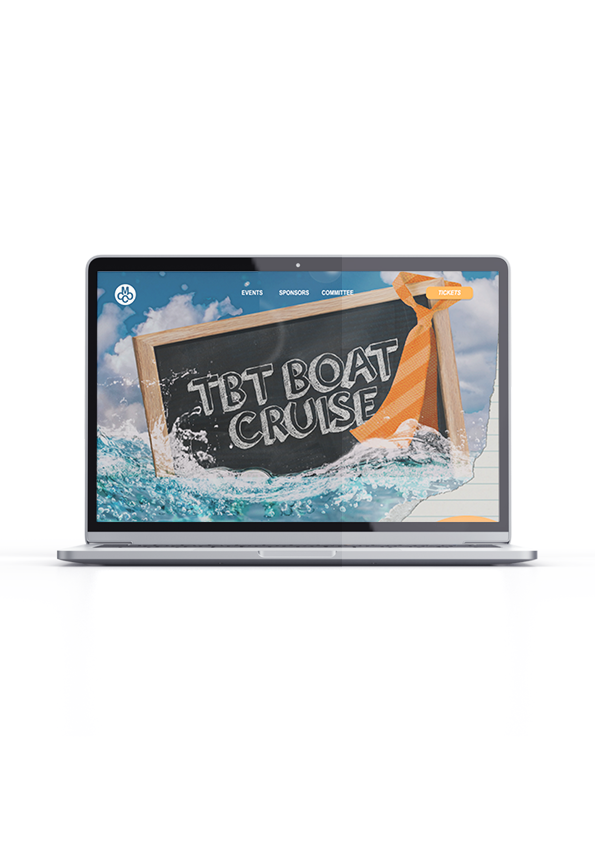
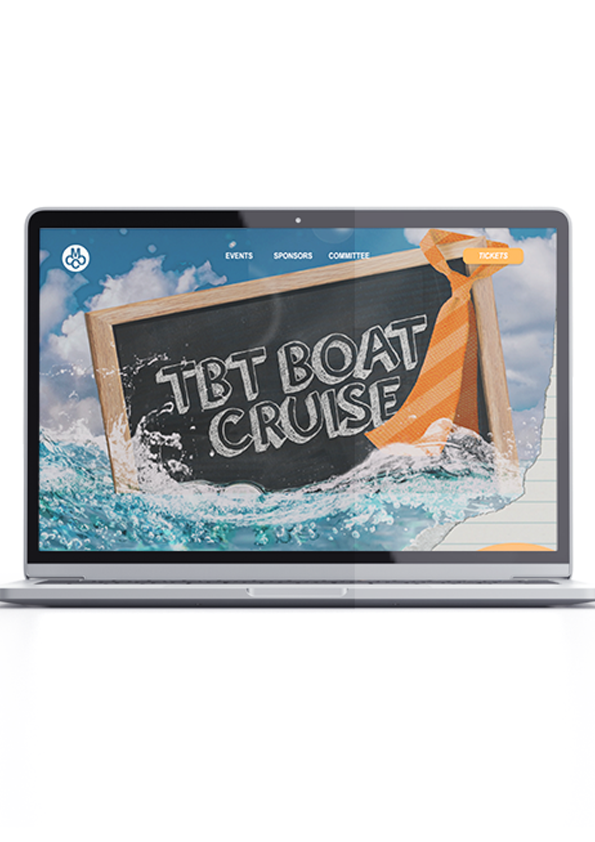
..

diff --git a/kirstytrinh/monopoly-ux.html b/kirstytrinh/monopoly-ux.html
@@ -21,7 +21,7 @@
       </div>
     </div>
 
-    <div class="container">
+    <div class="container2">
         <div class="about-image"> 
             <img src="work/monopoly-mockup.png" alt="">
         </div>
@@ -31,20 +31,21 @@
                 <a class="button" href="portfolio.html"> <i class="arrow-left"></i> </a>
             </div>
             <div class="info-title"> Monopoly Museum UX  </div>
-            <div class="info-location"> CDS2001 </div>
+            <div class="info-location"> Before / During / After </div>
             <div class="info-text">
-                The Omaru Alpaca Farm is located in Cottles Bridge and is only open on the first and fourth Sundays of each month, from 11:00 a.m. to 3:00 p.m. This is due to the fact that the alpacas require relaxation. It is an open farm so we can go and feed the animals.  
+                The task was to create a prototype app that would support and improve the project museum of.... The name of the museum I chose is Museum of Monopoly. The app was created to be used before, during, and after visiting a museum. Purchasing museum admission with an app is the before stage. The scavenger hunt and shooting pictures take place during stage. The next step is to conduct a survey about the visit which is the after stage. As my museum is dedicated to Monopoly, I preserve the essential elements, such as the colours, house cards, and figurines, that make Monopoly so recognisable. 
             </div>
 
-        </div>
+            <div class="more-pic"> 
+                <img src="work/monopoly-experience.png" alt="">
+            </div>
+
+            <div class="more-pic"> 
+                <img src="work/monopoly-ux-style.png" alt="">
+            </div>
     </div>
 
-    <div class="footer">
-        <div class="footercol"> <a href="about.html"> About </a> </div>
-        <div class="footercol"> Kirsty Trinh </div>
-        <div class="footercol"> <a href="portfolio.html"> Portfolio </a> </div>
-        <div class="footercol"> Monash Art and Design </div>
-    </div>
+ 
 
 
 

diff --git a/kirstytrinh/dpub.html b/kirstytrinh/dpub.html
@@ -1,0 +1,53 @@
+<!DOCTYPE html>
+<html lang="en">
+<head>
+    <meta charset="UTF-8">
+    <meta http-equiv="X-UA-Compatible" content="IE=edge">
+    <meta name="viewport" content="width=device-width, initial-scale=1.0">
+    <title>whisky</title>
+    <link rel="stylesheet" href="reset.css">
+    <link rel="stylesheet" href="main.css">
+</head>
+<body>
+    
+    
+    <div class="header">
+        <div class="logo">
+            <a href="index.html"> ktrnh </a>
+        </div>
+        <div class="nav">
+          <a href="about.html"> About </a> 
+          <a href="portfolio.html"> Portfolio </a>
+      </div>
+    </div>
+
+    <div class="container">
+        <div class="about-image"> 
+            <img src="images/farm.png" alt="">
+        </div>
+
+
+        <div class="info-content">
+            <div class="back"> 
+                <a class="button" href="portfolio.html"> <i class="arrow-left"></i> </a>
+            </div>
+            <div class="info-title"> Everyday AR 2200  </div>
+            <div class="info-location"> MK</div>
+            <div class="info-text">
+                The Omaru Alpaca Farm is located in Cottles Bridge and is only open on the first and fourth Sundays of each month, from 11:00 a.m. to 3:00 p.m. This is due to the fact that the alpacas require relaxation. It is an open farm so we can go and feed the animals.  
+            </div>
+
+        </div>
+    </div>
+
+    <div class="footer">
+        <div class="footercol"> <a href="about.html"> About </a> </div>
+        <div class="footercol"> Kirsty Trinh </div>
+        <div class="footercol"> <a href="portfolio.html"> Portfolio </a> </div>
+        <div class="footercol"> Monash Art and Design </div>
+    </div>
+
+
+
+</body>
+</html>

diff --git a/kirstytrinh/main.css b/kirstytrinh/main.css
@@ -105,6 +105,14 @@ div.container {
     padding-right: 60px;
 }
 
+div.container2 {
+    display: flex;
+    flex-wrap: wrap;
+    padding-top: 60px;
+    padding-left: 60px;
+    padding-right: 60px;
+}
+
 div.item {
     width: 33.33%;
     padding-left: 40px;
@@ -145,7 +153,7 @@ div.box {
 }
 
 div.pic {
-    width: 30%;
+    width: 40%;
     padding-left: 20px;
     padding-right: 20px;
     margin-top: 20px;
@@ -162,21 +170,21 @@ div.pic.first {
     margin-left: 420px;
 }
 div.about-image {
-    width: 30%;
-    margin-top: 80px;
+    width: 50%;
+    margin-top: 40px;
     margin-left: 40px;
 }
 
 div.info-content {
-    width: 60%;
-    padding: 20px;
+    width: 70%;
     display: inline;
     margin-bottom: 20px;
 }
 
 div.info-text {
     line-height: 30px;
-    margin-left: 50px;
+    margin-left: 40px;
+    padding-top: 10px;
     font-size: 18px;
     align-items: flex-start;
 }
@@ -185,12 +193,12 @@ div.info-title {
     font-size: 28px;
     font-weight: bolder;
     text-transform: uppercase;
-    margin-left: 50px;
+    margin-left: 40px;
     padding-bottom: 8px;
 }
 
 div.info-location {
-    margin-left: 50px;
+    margin-left: 40px;
     color: rgb(119, 118, 118);
     font-size: 15px;
     padding-bottom: 20px;
@@ -235,6 +243,12 @@ div.details {
     align-items: flex-start;
 }
 
+div.more-pic {
+    margin-top: 40px;
+    margin: 40px;
+
+}
+
 .look img { 
     height: 100%;
     object-fit: cover;
@@ -268,9 +282,10 @@ div.back a:hover {
 
 div.back {
     line-height: 45px;
-    margin-left: 50px;
+    margin-left: 40px;
     font-size: 13px;
-    margin-bottom: 10px;
+    margin-bottom: 20px;
+    padding-top: 40px;
 }
 
 div.footer {

diff --git a/kirstytrinh/event-ux.html b/kirstytrinh/event-ux.html
@@ -4,7 +4,7 @@
     <meta charset="UTF-8">
     <meta http-equiv="X-UA-Compatible" content="IE=edge">
     <meta name="viewport" content="width=device-width, initial-scale=1.0">
-    <title>hush</title>
+    <title>event ux</title>
     <link rel="stylesheet" href="reset.css">
     <link rel="stylesheet" href="main.css">
 </head>
@@ -21,9 +21,9 @@
       </div>
     </div>
 
-    <div class="container">
+    <div class="container2">
         <div class="about-image"> 
-            <img src="images/farm.png" alt="">
+            <img src="work/event-mockup.png" alt="">
         </div>
 
 
@@ -32,9 +32,9 @@
                 <a class="button" href="portfolio.html"> <i class="arrow-left"></i> </a>
             </div>
             <div class="info-title"> Mtriple C </div>
-            <div class="info-location"> CDS2001 </div>
+            <div class="info-location"> Event Website </div>
             <div class="info-text">
-                The Omaru Alpaca Farm is located in Cottles Bridge and is only open on the first and fourth Sundays of each month, from 11:00 a.m. to 3:00 p.m. This is due to the fact that the alpacas require relaxation. It is an open farm so we can go and feed the animals.  
+                The brief was to create a website prototype for my chosen event, a TBT boat cruise for a University social club called Mtriplec C. I designed an overall website for Mtriple C in order to provide a platform for patrons to purchase event tickets and learn more about the university social club. Mticple C's colour is orange, so orange circles are used to create a flow and add dimension to the website's background. 
             </div>
 
         </div>

diff --git a/kirstytrinh/imposter.html b/kirstytrinh/imposter.html
@@ -32,9 +32,10 @@
                 <a class="button" href="portfolio.html"> <i class="arrow-left"></i> </a>
             </div>
             <div class="info-title"> Imposter Syndrome </div>
-            <div class="info-location"> CDS3002 </div>
+            <div class="info-location"> Activation </div>
             <div class="info-text">
-                The Omaru Alpaca Farm is located in Cottles Bridge and is only open on the first and fourth Sundays of each month, from 11:00 a.m. to 3:00 p.m. This is due to the fact that the alpacas require relaxation. It is an open farm so we can go and feed the animals.  
+                Since many people experience imposter syndrome unknowingly, it is the focus of my campaign. The purpose of my campaign is to raise awareness of imposter syndrome and to reassure those who are experiencing it that they are not alone. The billboards are situated in the city roads, streets and train station so that people can view them on their route to and from work because the intended audience is workers. My primary campaign is a motion advertisement that shows the cognitive process of a person with imposter syndrome when they are given a task by their management. The fact that the ball starts off large before gradually shrinking shows how exhausted and worn out the individual are. The last scene, shows the the ball become big but not as big as the first scene because they pretend that everything is fine.
+
             </div>
 
         </div>

diff --git a/kirstytrinh/halfmoonbay.html b/kirstytrinh/halfmoonbay.html
@@ -32,9 +32,9 @@
                 <a class="button" href="portfolio.html"> <i class="arrow-left"></i> </a>
             </div>
             <div class="info-title"> Half Moon Bay </div>
-            <div class="info-location"> CDS3001 </div>
+            <div class="info-location"> Observation </div>
             <div class="info-text">
-                The Omaru Alpaca Farm is located in Cottles Bridge and is only open on the first and fourth Sundays of each month, from 11:00 a.m. to 3:00 p.m. This is due to the fact that the alpacas require relaxation. It is an open farm so we can go and feed the animals.  
+                This task involved me visiting a place and create a poster communicating my interpretation of the suburb. My chosen suburb is black rock, focusing on Half Moon Bay. Half Moon Bay is a calm, gentle and shallow beach that is shape as a half moon crescent. The varied textures were the first thing that caught my eye and I want to convey that in my posters. Therefore, I constructed a college by compiling various texture images of the sky, rocks and ocean into one image. My colour palette consists of two colours in my poster blue and yellow because I want the main focus to the the textures. To mimic the wavy look of the ocean, I used Marola typography and added a the same blue shadow for the text to pop. To balance the poster, the balance typography is a san serif called Menlo. 
             </div>
 
         </div>

diff --git a/kirstytrinh/event.html b/kirstytrinh/event.html
@@ -31,10 +31,10 @@
             <div class="back"> 
                 <a class="button" href="portfolio.html"> <i class="arrow-left"></i> </a>
             </div>
-            <div class="info-title"> Event promotion  </div>
-            <div class="info-location"> CDS2001 </div>
+            <div class="info-title"> TBT Boat Cruise </div>
+            <div class="info-location"> Event promotion </div>
             <div class="info-text">
-                The Omaru Alpaca Farm is located in Cottles Bridge and is only open on the first and fourth Sundays of each month, from 11:00 a.m. to 3:00 p.m. This is due to the fact that the alpacas require relaxation. It is an open farm so we can go and feed the animals.  
+                I was given the task of designing a two-sided poster to promote a university social club event called TBT boat cruise. The event's theme is a return to high school, with partons dressed in their uniforms. I created the poster by combining a cruise ship and the ocean with school elements such as a chalk board, line paper, and uniform tie. The reverse of the poster contains a brochure with more information about the event and the club.
             </div>
 
         </div>

diff --git a/kirstytrinh/grocery.html b/kirstytrinh/grocery.html
@@ -21,9 +21,9 @@
       </div>
     </div>
 
-    <div class="container">
+    <div class="container2">
         <div class="about-image"> 
-            <img src="images/farm.png" alt="">
+            <img src="work/grocery-mockup.png" alt="">
         </div>
 
 
@@ -32,9 +32,9 @@
                 <a class="button" href="portfolio.html"> <i class="arrow-left"></i> </a>
             </div>
             <div class="info-title"> Everyday Grocery </div>
-            <div class="info-location"> CDS3002 </div>
+            <div class="info-location"> Advanced UX </div>
             <div class="info-text">
-                The Omaru Alpaca Farm is located in Cottles Bridge and is only open on the first and fourth Sundays of each month, from 11:00 a.m. to 3:00 p.m. This is due to the fact that the alpacas require relaxation. It is an open farm so we can go and feed the animals.  
+                Everyday Supermarket is a grocery shopping aid that makes the customer's grocery shopping experience more productive. When going grocery shopping, many people experience problems such as spending longer than anticipated in the store.
             </div>
 
         </div>

diff --git a/kirstytrinh/monopoly.html b/kirstytrinh/monopoly.html
@@ -33,7 +33,7 @@
             <div class="info-title"> Monopoly Museum Idenity  </div>
             <div class="info-location"> CDS2001 </div>
             <div class="info-text">
-                The Omaru Alpaca Farm is located in Cottles Bridge and is only open on the first and fourth Sundays of each month, from 11:00 a.m. to 3:00 p.m. This is due to the fact that the alpacas require relaxation. It is an open farm so we can go and feed the animals.  
+                The Museum of Monopoly investigates the numerous, inventive monopolies that have been developed over the years. Will delve into its past and how it all started. The artist's approach to turning current pop culture into a theme for a board game. This is an interactive museum where each guest participates in a scavenger hunt to see who can find the most items. Additionally, Monopoly has distinctive characteristics that I'd like to keep and bring to the museum. The colours of the properties in Monopoly are light blue, dark blue, red, orange, pink, yellow, grey, and brown.which are a significant identity of monopoly.
             </div>
 
         </div>

diff --git a/kirstytrinh/index.html b/kirstytrinh/index.html
@@ -22,19 +22,13 @@
 
     <div class="box">
         <div class="pic first"> 
-            <img src="images/josh.jpg" alt="">
+            <a href="grocery.html"> <img src="work/grocery-mockup.png"  class="hover-shadow"> </a>
         </div>
         <div class="pic">
-            <img src="images/josh.jpg" alt="">
+            <a href="monopoly-ux.html"> <img src="work/monopoly-mockup.png"  class="hover-shadow"> </a>
         </div>
         <div class="pic">
-            <img src="images/dessert.jpg" alt="">
-        </div>
-        <div class="pic">
-            <img src="images/dooboo.png" alt="">
-        </div>
-        <div class="pic">
-            <img src="images/.png" alt="">
+            <a href="event-ux.html"> <img src="work/event-mockup.png"  class="hover-shadow"> </a>
         </div>
     </div>
 

diff --git a/kirstytrinh/portfolio.html b/kirstytrinh/portfolio.html
@@ -34,7 +34,7 @@
       </div>
     
       <div class="item">
-        <a href="event-ux.html"> <img src="work/event-hero.png"  class="hover-shadow"> </a>
+        <a href="event-ux.html"> <img src="work/event-main.png"  class="hover-shadow"> </a>
         <div class="item-text"> Mtriple C </div>
         <div class="item-des"> Event Website </div>
       </div>
